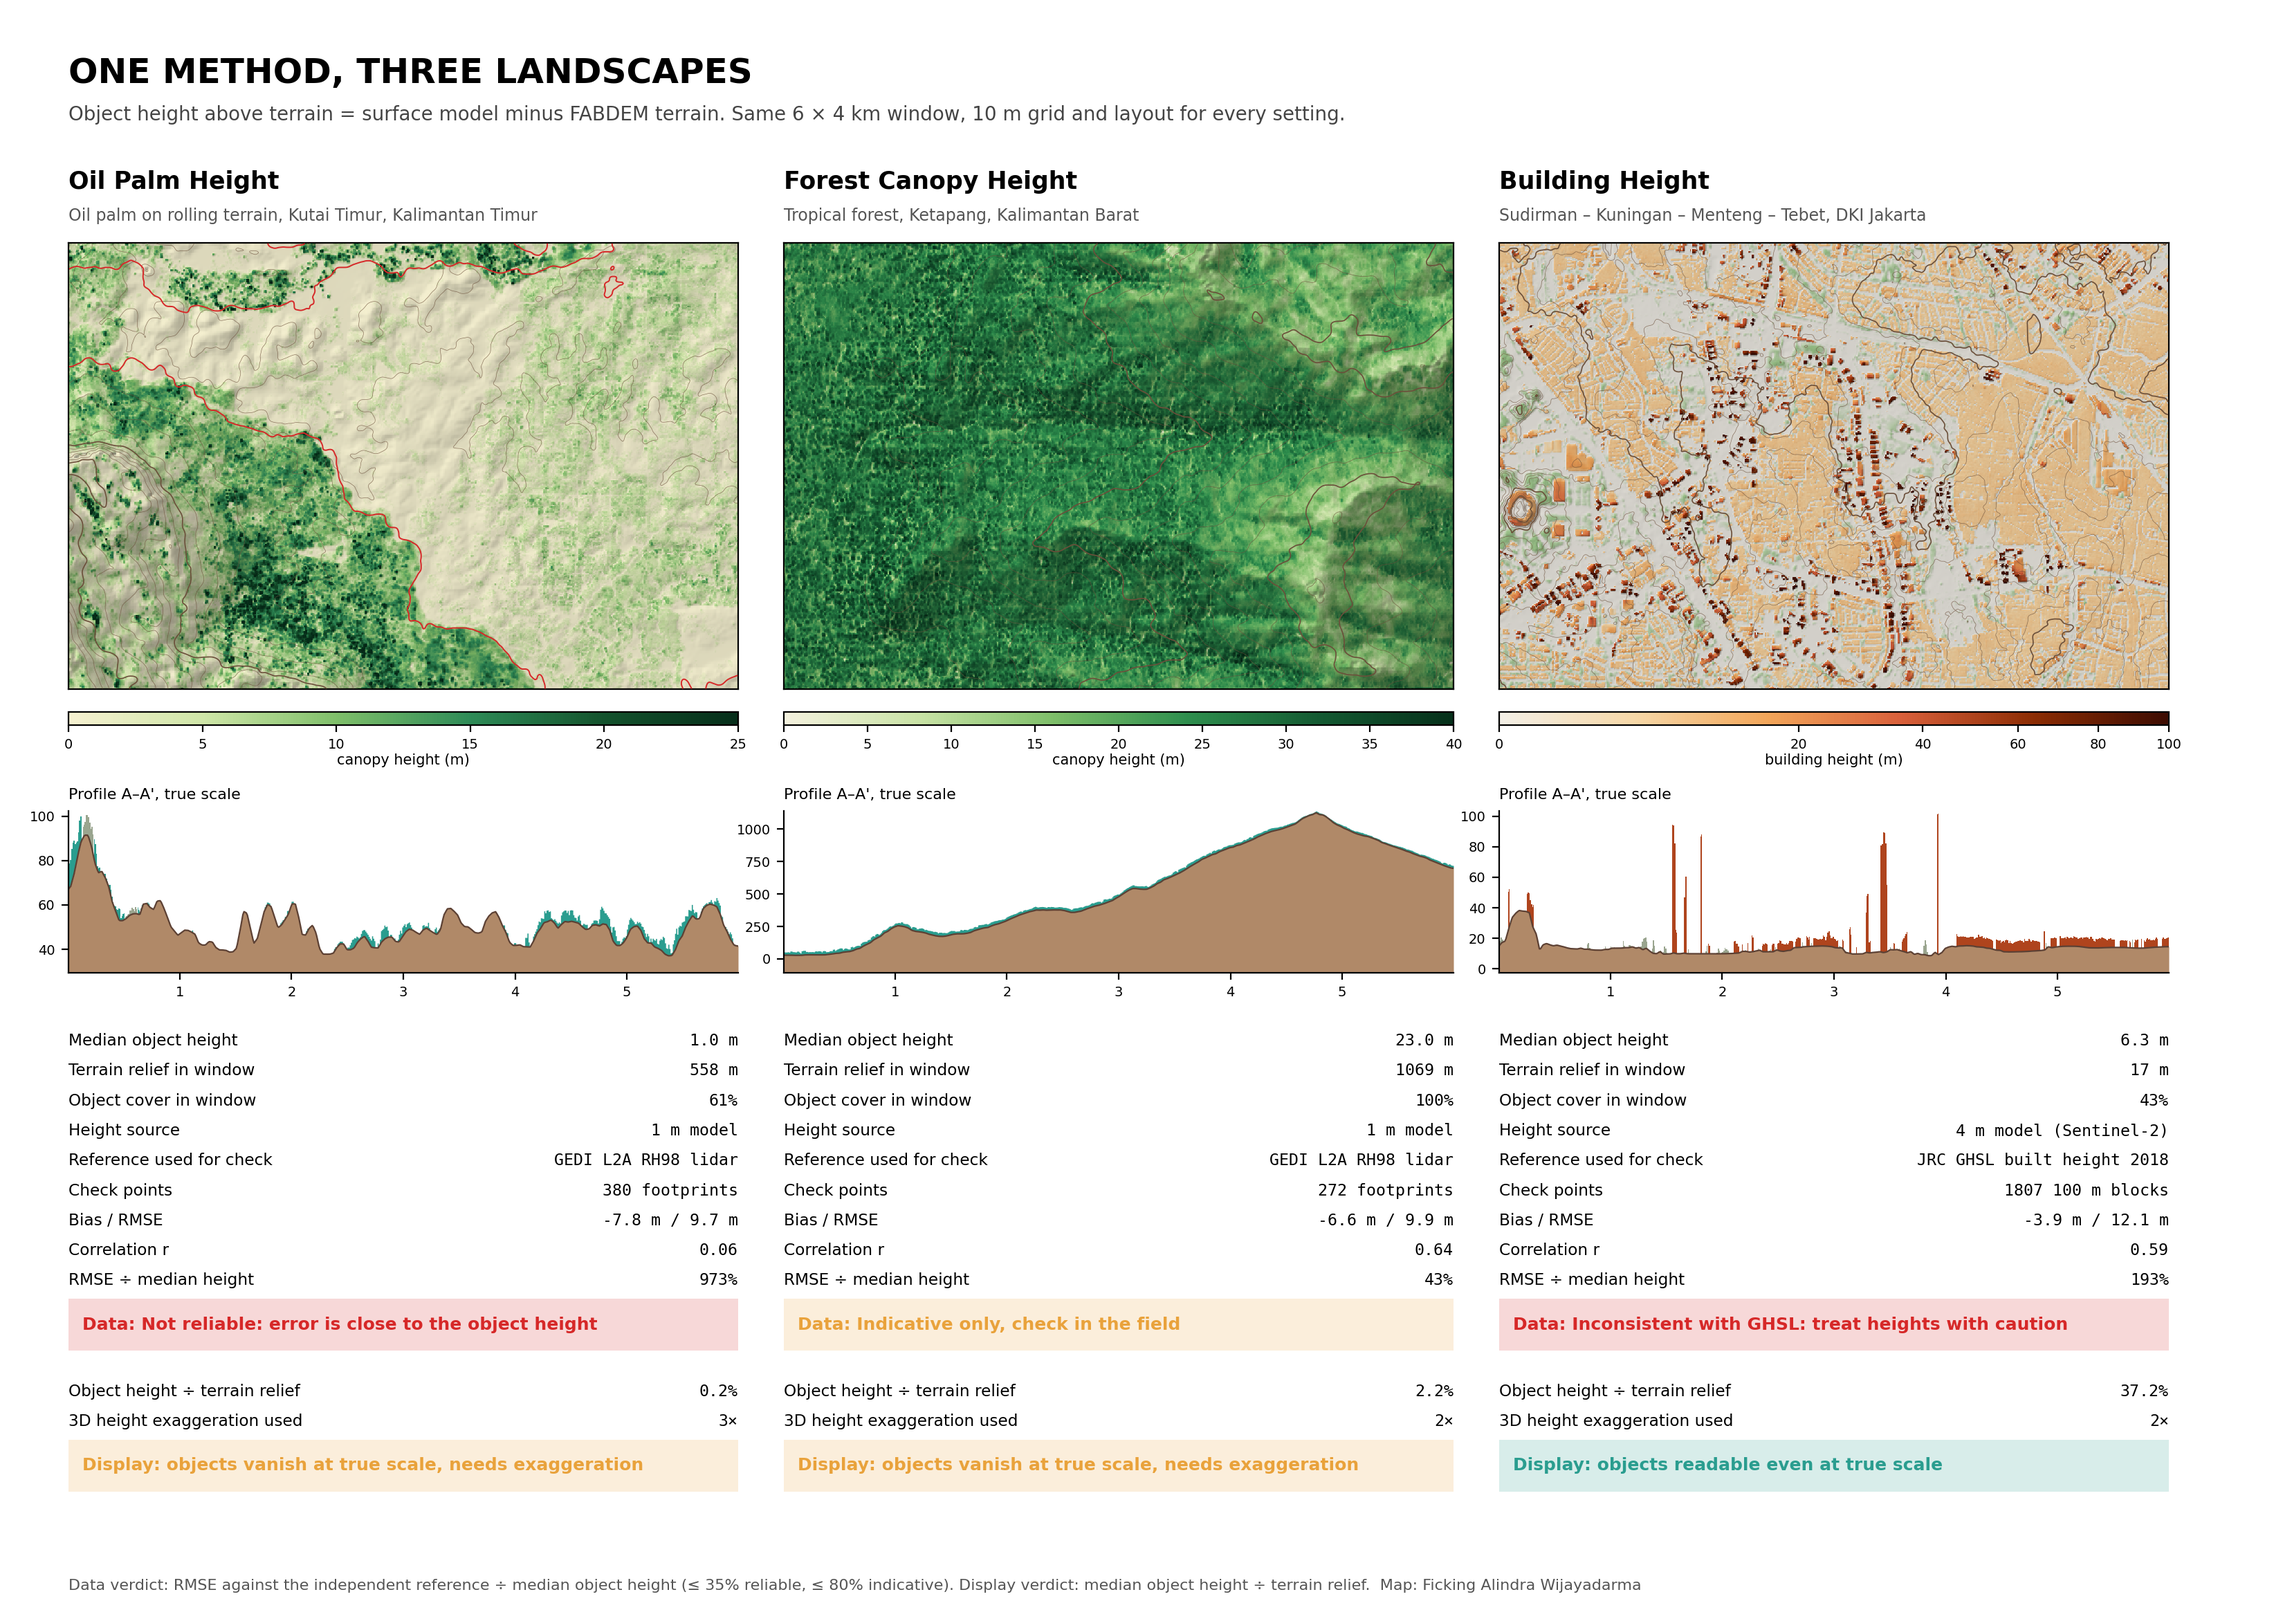
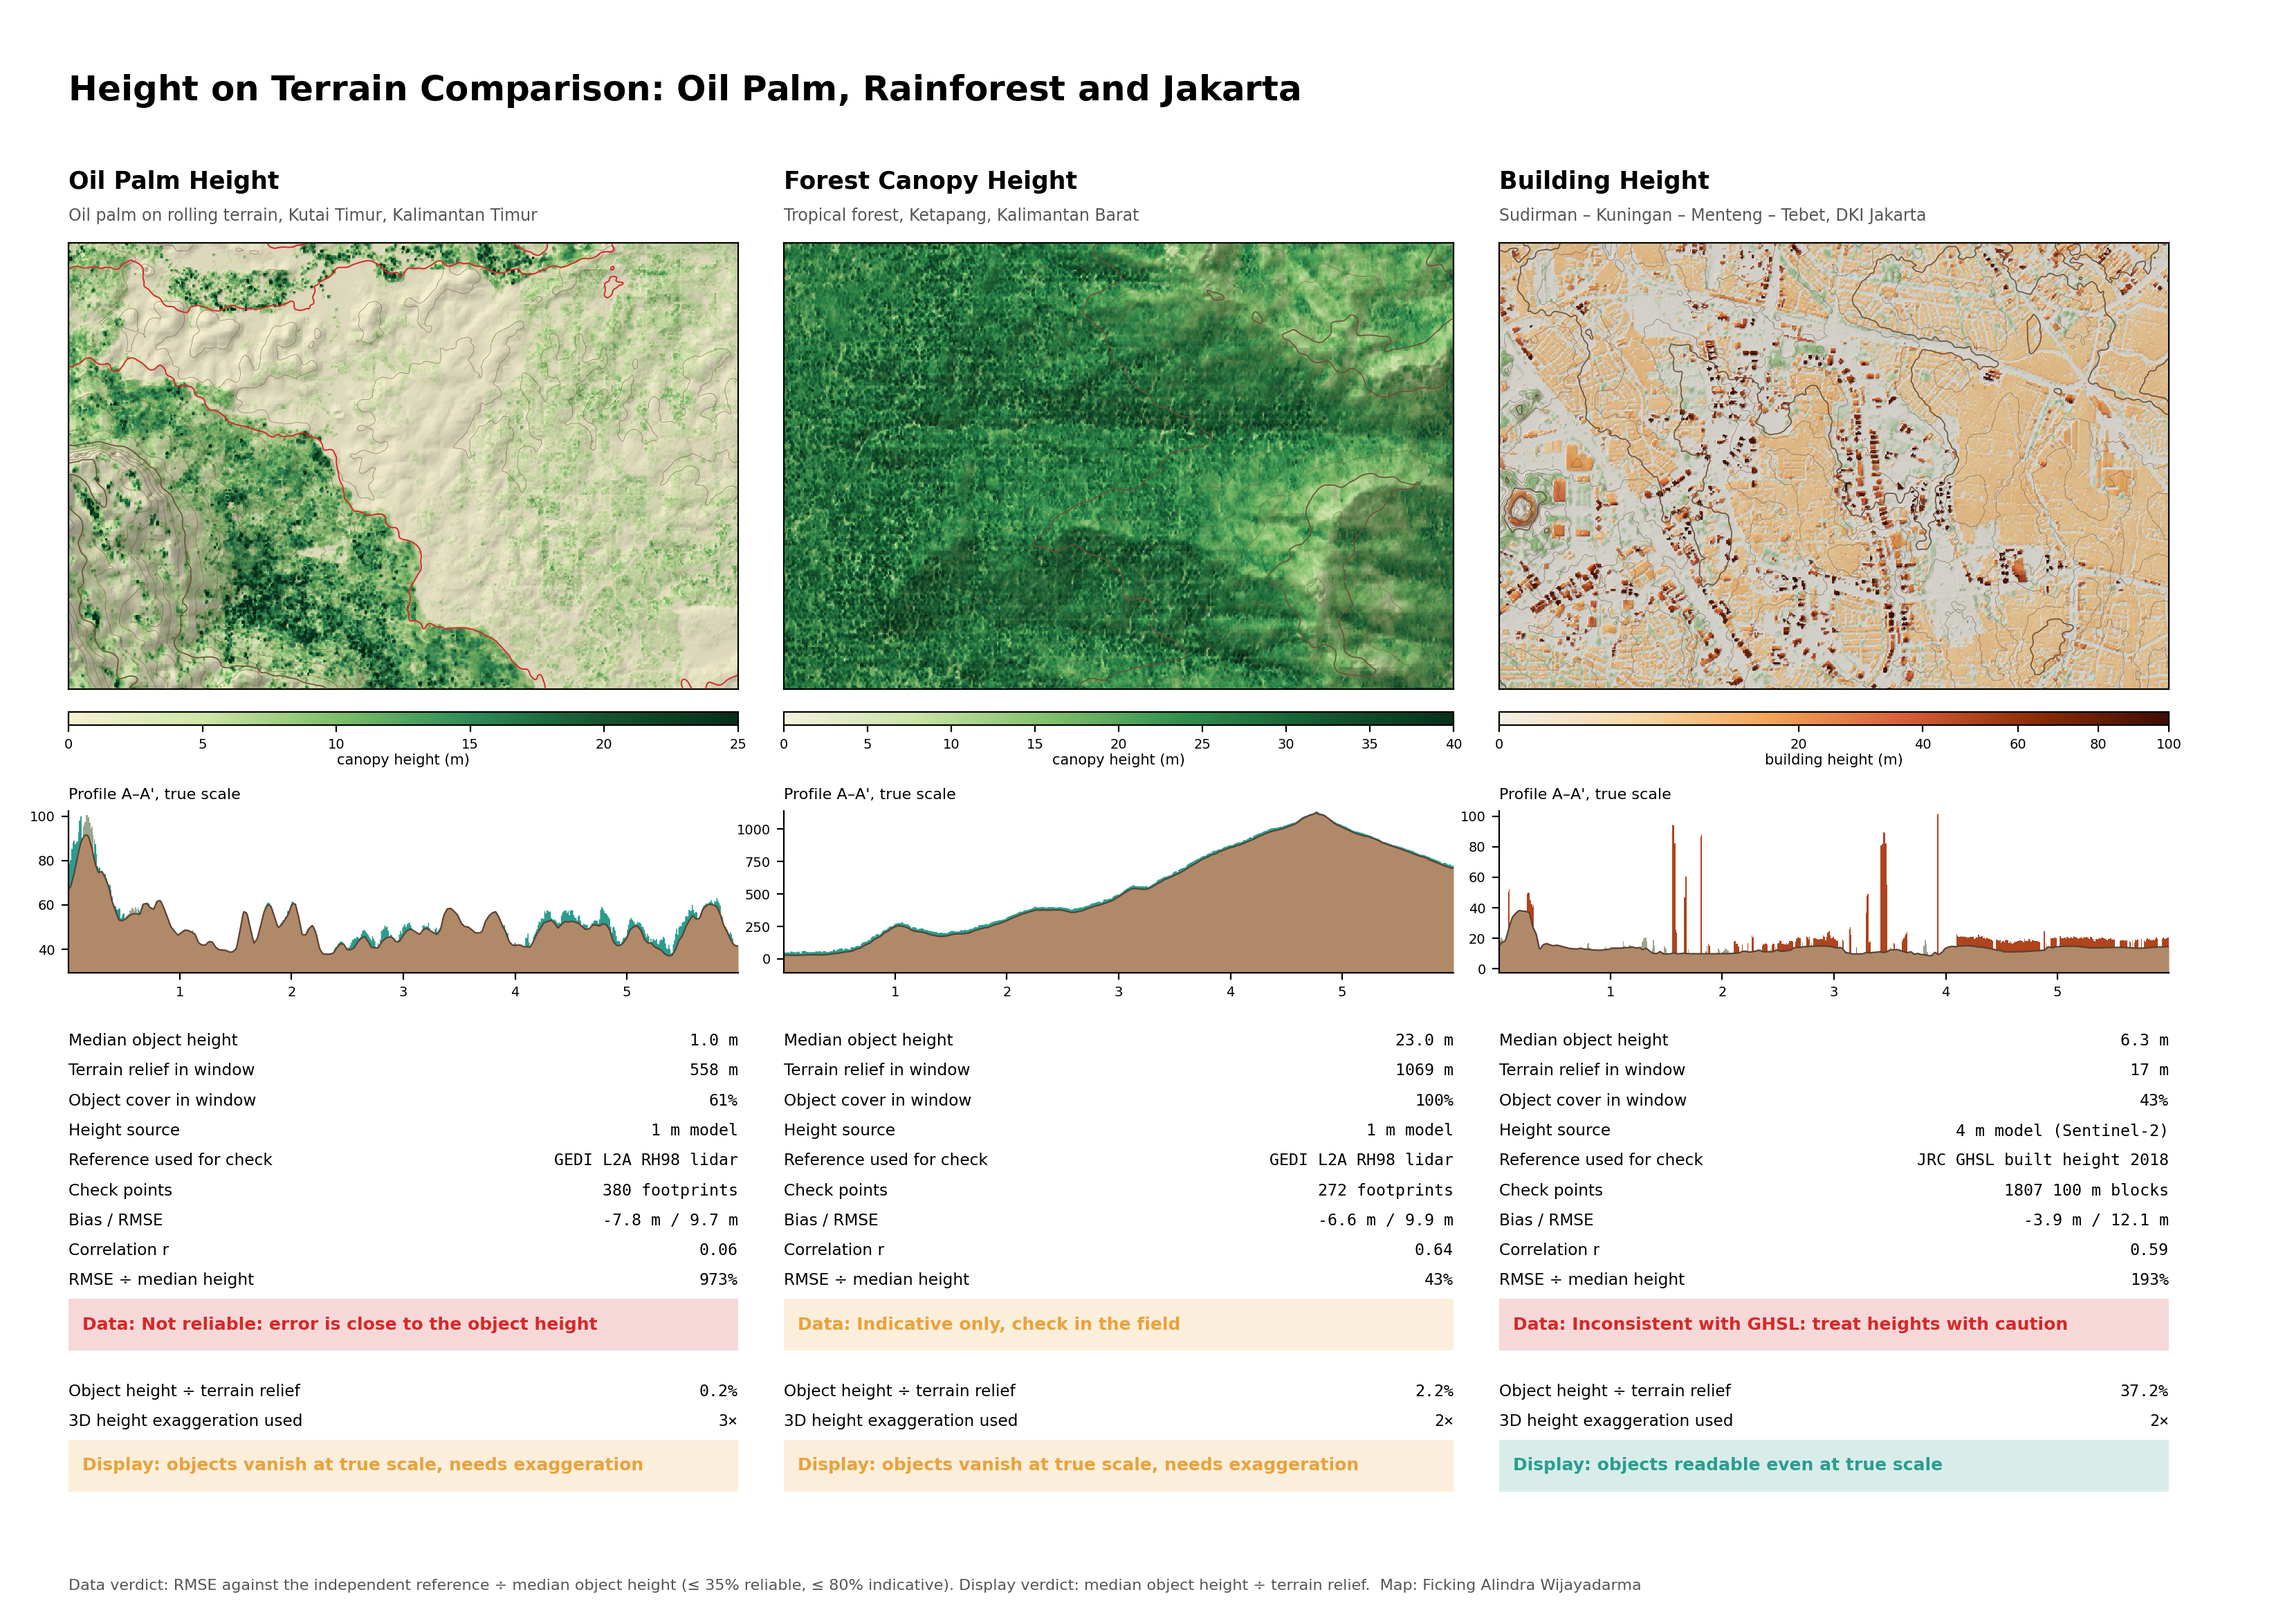
Add files via upload

Changed region(s): [[0.0312, 0.0312, 0.5618, 0.0936]]

diff --git a/index.html b/index.html
@@ -597,7 +597,7 @@ const CERTS=[
 
 /* =================== RENDER =================== */
 const $=s=>document.querySelector(s),$$=s=>[...document.querySelectorAll(s)];
-const V=f=>f.startsWith('height/')?'?v=2':'';
+const V=f=>f.startsWith('height/')?'?v=3':'';
 const IMG=f=>'img/'+f+V(f);
 const TH=f=>'img/thumb/'+f.replace(/\.(png|jpe?g)$/i,'.jpg')+V(f);
 const ARROW='<svg viewBox="0 0 24 24" fill="none" stroke="currentColor" stroke-width="2.4" stroke-linecap="round" stroke-linejoin="round"><path d="M5 12h14M13 6l6 6-6 6"/></svg>';

diff --git a/files/height_on_terrain.py b/files/height_on_terrain.py
@@ -596,9 +596,7 @@ def display_verdict(S, cfg):
 def compare_figure(results, path, author, dpi=200):
     modes = [m for m in ('palm', 'forest', 'tea', 'urban') if m in results]
     fig = plt.figure(figsize=(16.5, 11.7), dpi=dpi); fig.patch.set_facecolor('white')
-    fig.text(.03, .965, 'ONE METHOD, THREE LANDSCAPES', fontsize=18, fontweight='bold', va='top')
-    fig.text(.03, .935, 'Object height above terrain = surface model minus FABDEM terrain. Same 6 × 4 km window, 10 m grid and layout for every setting.',
-             fontsize=10, color='#444', va='top')
+    fig.text(.03, .955, 'Height on Terrain Comparison: Oil Palm, Rainforest and Jakarta', fontsize=18, fontweight='bold', va='top')
     n = len(modes); W = .94/n
     for i, m in enumerate(modes):
         D, g, A, cfg = results[m]; P = prof(cfg); S, V = A['S'], A['V']; x0 = .03+i*W; w = W-.02
